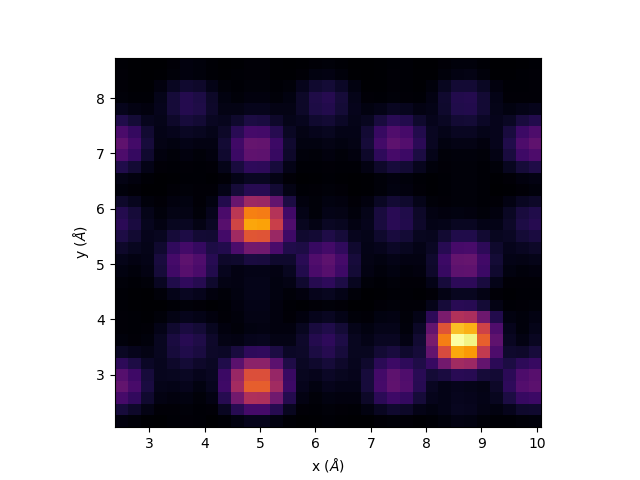
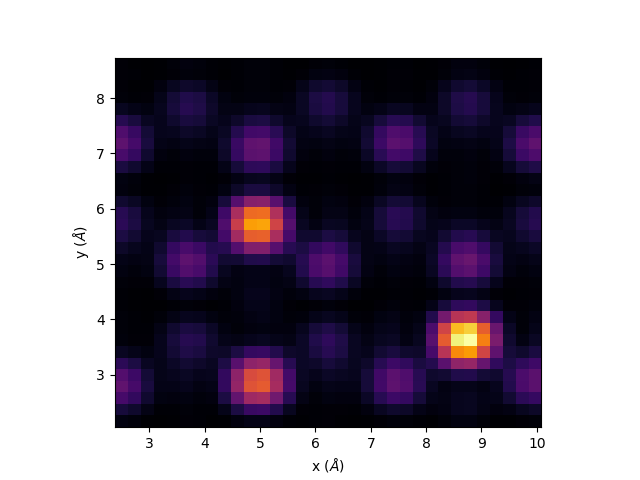
quick push before i break stuff

Changed region(s): [[0.6562, 0.625, 0.8125, 0.75]]

diff --git a/src/pyslice/multislice/multislice.py b/src/pyslice/multislice/multislice.py
@@ -1,7 +1,7 @@
 import numpy as np
 from tqdm import tqdm
 import logging
-from ..backend import zeros,mean,ones,to_cpu,asarray,absolute,sum,reshape
+from ..backend import zeros,mean,ones,to_cpu,asarray,absolute,sum,reshape,midcrop
 
 try:
     import torch ; xp = torch
@@ -95,7 +95,7 @@ class Probe:
     Significant speedup for large grid sizes through GPU-accelerated FFT operations.
     """
     
-    def __init__(self, xs, ys, mrad, eV, array=None, device=None, gaussianVOA=0, preview=False, probe_xs=None, probe_ys=None, probe_positions=None, cropping=False, defer_shifts=False):
+    def __init__(self, xs, ys, mrad, eV, array=None, device=None, gaussianVOA=0, preview=False, probe_xs=None, probe_ys=None, probe_positions=None, cropping=False, defer_shifts=False, stay_reciprocal = False, crop_reciprocal=False):
         """
         Initialize GPU-accelerated probe wavefunction.
         
@@ -179,6 +179,12 @@ class Probe:
         # Set up device kwargs for unified xp interface (same as Potential class)
         device_kwargs = {'device': self.device, 'dtype': self.dtype} if self.use_torch else {}
         
+        self.stay_reciprocal = stay_reciprocal
+        self.crop_reciprocal = crop_reciprocal
+        if self.crop_reciprocal: # user asked for kspace to be, say, 100 pixels, but right now it's 350...
+            self.crop_reciprocal = (min(nx,ny)-self.crop_reciprocal)//2 # so we need to chop 125 off each side
+
+
         self.kxs = xp.fft.fftfreq(nx, d=dx, **device_kwargs)
         self.kys = xp.fft.fftfreq(ny, d=dy, **device_kwargs)
 
@@ -204,14 +210,20 @@ class Probe:
         if not defer_shifts:
             self.applyShifts()
 
-    def generate_single_probe(self,mrad,wavelength,gaussianVOA,preview=False,keep_reciprocal=False):
-        nx,ny = len(self.kxs) , len(self.kys)
+    def generate_single_probe(self,mrad,wavelength,gaussianVOA,preview=False):
+        kxs,kys = self.kxs,self.kys
+        if self.crop_reciprocal:           # unshifted kx ky: 0,1,2,3,....-3,-2,-1, midcrop gets rid of high-k: 0,1,2,-2,-1
+            kxs = midcrop(self.kxs,self.crop_reciprocal)
+            kys = midcrop(self.kys,self.crop_reciprocal)
+
+        nx,ny = len(kxs) , len(kys)
         if mrad == 0:
             return zeros((nx, ny))+1
 
-        reciprocal = zeros((nx, ny))
         radius = (mrad * 1e-3) / wavelength  # Convert mrad to reciprocal space units
-        kx_grid, ky_grid = xp.meshgrid(self.kxs, self.kys, indexing='ij') # unshifted kx ky: 0,1,2,3,....-3,-2,-1
+
+        reciprocal = zeros((nx, ny))
+        kx_grid, ky_grid = xp.meshgrid(kxs, kys, indexing='ij') # unshifted kx ky: 0,1,2,3,....-3,-2,-1
         radii = xp.sqrt(kx_grid**2 + ky_grid**2)
 
         if gaussianVOA == 0:
@@ -230,8 +242,9 @@ class Probe:
             ax.set_ylabel("ky ($\\AA^{-1}$)")
             plt.show()
 
-        if keep_reciprocal:
-            return reciprocal
+        if self.stay_reciprocal: # if we would've done a real-space shift, we should apply a phase ramp in reciprocal space
+            return reciprocal * xp.exp(-2j * xp.pi * kxs[None,:, None] * self.lx/2 ) * xp.exp(-2j * xp.pi * kys[None,None, :] * self.ly/2 )
+
         return xp.fft.ifftshift(xp.fft.ifft2(reciprocal)) # iFFT --> realspace --> shift --> zero in the center
         #self.array_numpy = self.array.cpu().numpy()
     
@@ -404,7 +417,7 @@ class Probe:
 
         nc,npt,nx,ny = self._array.shape #; print("applyShifts expands to",nc,npt,nx,ny)
 
-    def placeProbe(self,array,x,y,realspace=True):
+    def placeProbe(self,array,x,y):
         dx = (x-self.lx/2) ; dy = (y-self.ly/2)                 # probe started in the center
         if self.cropping:
             i1=self.nx//2-self.cropping//2 ; i2=i1+self.cropping  # |_______i1___.___i2_______| for initial centered probe at lx/2,ly/2
@@ -415,19 +428,25 @@ class Probe:
             dpx = dx//self.dx ; dpy = dy//self.dy               # pixel shifts
             offset_x = i1+dpx ; offset_y = j1+dpy
             dx-=dpx*self.dx ; dy-=dpy*self.dy                   # update subpixel shifts
+        elif self.crop_reciprocal:           # unshifted kx ky: 0,1,2,3,....-3,-2,-1, midcrop gets rid of high-k: 0,1,2,-2,-1
+            kxs = midcrop(self.kxs,self.crop_reciprocal)
+            kys = midcrop(self.kys,self.crop_reciprocal)
+            offset_x = 0 ; offset_y=0
         else:
             kxs,kys=self.kxs,self.kys
             offset_x = 0 ; offset_y=0
-        if realspace:
+        if not self.stay_reciprocal:
             probe_k = xp.fft.fft2(array) # positional,summable,x,y
         else:
             probe_k = array
         kx_shift = xp.exp(-2j * xp.pi * kxs[None,:, None] * dx )
         ky_shift = xp.exp(-2j * xp.pi * kys[None,None, :] * dy )
         probe_k_shifted = probe_k * kx_shift * ky_shift
-        if realspace:
-            return xp.fft.ifft2(probe_k_shifted),(offset_x,offset_y)
-        return probe_k_shifted,(offset_x,offset_y)
+
+        if self.stay_reciprocal:
+             return probe_k_shifted,(offset_x,offset_y)
+        return xp.fft.ifft2(probe_k_shifted),(offset_x,offset_y)
+
 
     def aberrate(self,aberrations):
         dP = aberrationFunction(self.kxs,self.kys,self.wavelength,aberrations)
@@ -597,6 +616,17 @@ class PrismProbe:
         if nky is None:
             nky = nkx
         self.nx_cropped = nkx ; self.ny_cropped = nky # indices for cropping i1,i2,j1,j2
+
+        #self.to_cut = self.nx//2-self.nx_cropped//2
+
+        #print("kxs",len(self.kxs),
+        #tocut=(min(self.nx,self.ny)-self.nx_cropped)//2 # this calc will be used for probe cropping
+        #self.nx_cropped = len(midcrop(self.kxs,tocut))
+        #self.ny_cropped = len(midcrop(self.kys,tocut))
+        #print()
+        #self.crop_reciprocal = (min(nx,ny)-self.crop_reciprocal)//2
+
+
         self.i1 = self.nx//2-self.nx_cropped//2 ; self.i2 = self.i1+self.nx_cropped
         self.j1 = self.ny//2-self.ny_cropped//2 ; self.j2 = self.j1+self.ny_cropped
         self.probe_positions=zeros((self.nx_cropped,self.ny_cropped,2))
@@ -653,9 +683,13 @@ class PrismProbe:
             #ary = probe.generate_single_probe(self.mrad,self.wavelength,self.gaussianVOA,preview=False,keep_reciprocal=True)
             #probe_k = xp.fft.fftshift(probe.placeProbe(ary,x,y,realspace=False)[0][0,:,:])
             # strategy 3, stack of probes
-            probes = Probe(self.xs, self.ys, self.mrad, self.eV, probe_positions = positions[n:n+chunksize])
+            #probes = Probe(self.xs, self.ys, self.mrad, self.eV, probe_positions = positions[n:n+chunksize])
+            #kwarg = {"dim":(-2,-1)} if TORCH_AVAILABLE else {"axes":(-2,-1)}
+            #probe_ks = xp.fft.fftshift(xp.fft.fft2(probes._array[0,:,:,:],**kwarg),**kwarg)
+            probes = Probe(self.xs, self.ys, self.mrad, self.eV, probe_positions = positions[n:n+chunksize],stay_reciprocal=True)#,crop_reciprocal=self.nx_cropped)
             kwarg = {"dim":(-2,-1)} if TORCH_AVAILABLE else {"axes":(-2,-1)}
-            probe_ks = xp.fft.fftshift(xp.fft.fft2(probes._array[0,:,:,:],**kwarg),**kwarg)
+            probe_ks = xp.fft.fftshift(probes._array[0,:,:,:],**kwarg)
+
             # fourier components of FFT'd and cropped probe are the contribution of each exit wave
             factors = probe_ks[:,self.i1:self.i2,self.j1:self.j2] # this is unshifted since ij_lookup used unshifted kxs,kys
             result[n:n+chunksize,:,:]=sum(factors[:,:,:,None,None]*array[None,:,:,:,:],axis=(1,2)) # sum over all sinusoids
@@ -669,14 +703,14 @@ class PrismProbe:
             #    ax.imshow(np.real(probe_ks[0]).T, cmap="inferno")
             #    plt.show()
             # preview our sparse-k reconstructed probe? fft --> downsample --> ifft
-            #if n<=len(positions)//3<n+chunksize:
-            #    print("plotting reconstructed probe for",x,y)
-            #    probe_r = xp.fft.ifft2(xp.fft.ifftshift(factors[0,:,:]))
-            #    import matplotlib.pyplot as plt
-            #    fig, ax = plt.subplots()
-            #    extent = (xp.min(self.xs), xp.max(self.xs), xp.min(self.ys), xp.max(self.ys))
-            #    ax.imshow(to_cpu(xp.real(probe_r)).T[::-1,:], cmap="inferno",extent=extent)
-            #    plt.show()
+            if n<=len(positions)//3<n+chunksize:
+                print("plotting reconstructed probe for",x,y)
+                probe_r = xp.fft.ifft2(xp.fft.ifftshift(factors[0,:,:]))
+                import matplotlib.pyplot as plt
+                fig, ax = plt.subplots()
+                extent = (xp.min(self.xs), xp.max(self.xs), xp.min(self.ys), xp.max(self.ys))
+                ax.imshow(to_cpu(xp.real(probe_r)).T[::-1,:], cmap="inferno",extent=extent)
+                plt.show()
             # result from this probe is it's downsampled fourier component scaling/phase term, multiplied by each fourier component's raw exit
             #factors = xp.fft.fftshift(factors) # array will have been shift(fft())'d in MultisliceCalculator
 

diff --git a/src/pyslice/backend.py b/src/pyslice/backend.py
@@ -237,3 +237,6 @@ def to_cpu(array):
 
 def isnan(x):
     return xp.isnan(x)
+
+def midcrop(a,n): # e.g. unshifted ks: 0,1,2,3,4.....-4,-3,-,2-1, crop out 3 through -3, the inverse of a[n:-n]
+    return xp.roll(xp.roll(a,len(a)//2)[n:-n],len(a)//2-n)

diff --git a/src/pyslice/multislice/calculators.py b/src/pyslice/multislice/calculators.py
@@ -295,7 +295,7 @@ class MultisliceCalculator:
                 #continue
                 cache_file = self.output_dir / f"frame_{frame_idx}.npy"
                 # Show detailed progress for single-frame runs
-                show_progress = (frame_idx == 0 and self.n_frames == 1)
+                show_progress = (frame_idx == 0 and self.n_frames == 1 and not self.loop_probes)
 
                 # special case: no frames cached, but we clearly finished and got to tacaw. if so, don't bother regenerating
                 # this allows cache_levels = [] to be used for disk space savings

diff --git a/tests/22_prism.py b/tests/22_prism.py
@@ -21,7 +21,7 @@ a,b=2.4907733333333337,2.1570729817355123
 # LOAD TRAJECTORY
 trajectory=Loader(dump,timestep=dt,atom_mapping=types).load()
 trajectory=trajectory.slice_positions([0,10*a],[0,10*b])					# TRIM TO 10x10 UC
-trajectory=trajectory.get_random_timesteps(2,seed=5)						# SELECT "RANDOM" TIMESTEPS
+trajectory=trajectory.get_random_timesteps(1,seed=5)						# SELECT "RANDOM" TIMESTEPS
 for x,y,m in [[2*a,b*4/3,12],[2*a,b*4/3+b,14],[3.5*a,b*4/3,16]]:			# ADD DOPANTS (for testing scan lims)
     dxyz = trajectory.positions[0,:,:]-np.asarray([x,y,0])[None,:]
     distances = np.sqrt(np.sum((dxyz)**2,axis=1))